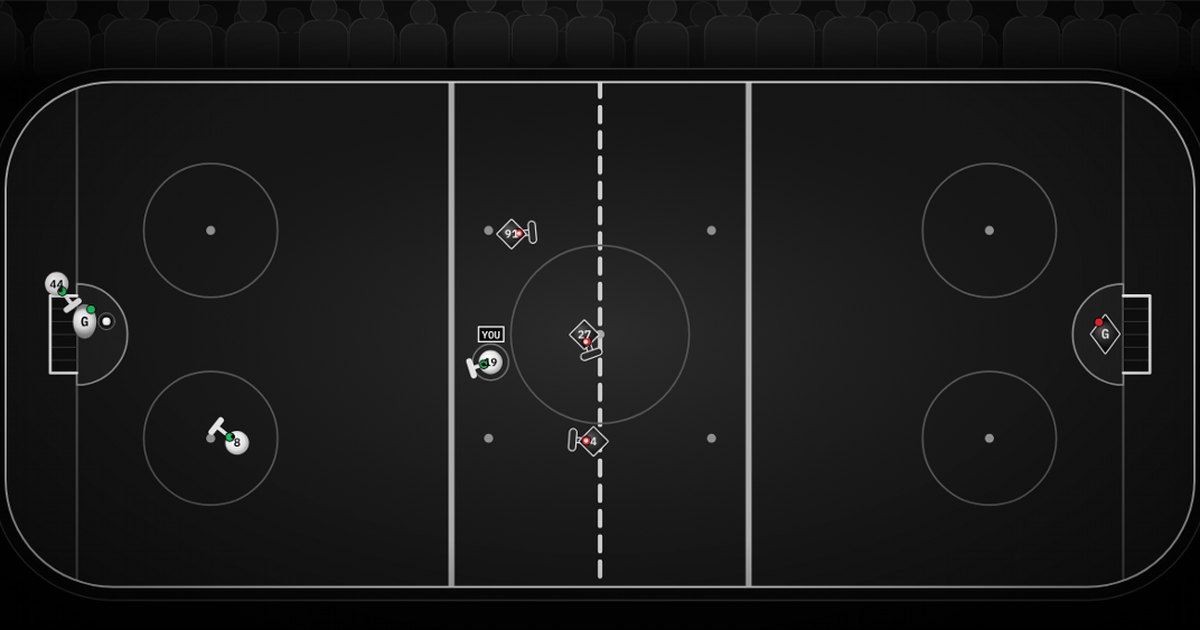
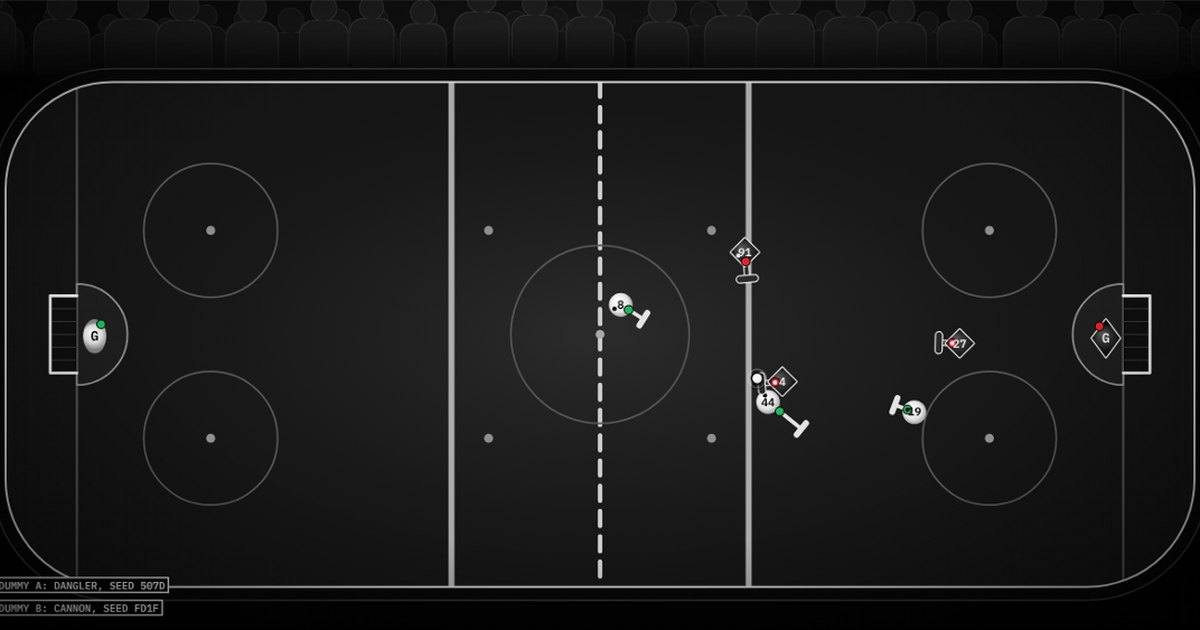
Games: swap the showcase shots to CPU vs CPU

diff --git a/games/slapshot/index.html b/games/slapshot/index.html
@@ -16,7 +16,7 @@
   <meta property="og:image" content="https://ag0nyy-ops.github.io/games/slapshot/og-image.jpg">
   <meta property="og:image:width" content="1200">
   <meta property="og:image:height" content="630">
-  <meta property="og:image:alt" content="Three on three hockey from above in Slapshot, your skater marked YOU at centre ice after the faceoff">
+  <meta property="og:image:alt" content="Three on three hockey from above in Slapshot, CPU vs CPU: two seeded dummy teams skate the neutral zone, their styles and seeds tagged in the corner">
   <meta name="twitter:card" content="summary_large_image">
   <meta name="theme-color" content="#060606">
   <meta name="color-scheme" content="dark">
@@ -60,8 +60,8 @@
       <p class="label">file 04 / how it plays</p>
       <h2 id="how">The right stick is your hockey stick.</h2>
       <figure class="shot">
-        <img src="og-image.jpg" width="1200" height="630" alt="Three on three hockey from above in Slapshot, your skater marked YOU at centre ice after the faceoff" loading="lazy">
-        <figcaption>3 on 3 at centre ice after the opening faceoff</figcaption>
+        <img src="og-image.jpg" width="1200" height="630" alt="Three on three hockey from above in Slapshot, CPU vs CPU: two seeded dummy teams skate the neutral zone, their styles and seeds tagged in the corner" loading="lazy">
+        <figcaption>CPU vs CPU, two seeded dummy teams in the first period</figcaption>
       </figure>
       <ul class="rules">
         <li><b>Hold back, flick forward.</b> Pull the right stick back to wind up and flick it forward to shoot. The puck goes the way you flick, and a dashed line shows the aim while you hold.</li>

diff --git a/games/bucket/index.html b/games/bucket/index.html
@@ -16,7 +16,7 @@
   <meta property="og:image" content="https://ag0nyy-ops.github.io/games/bucket/og-image.jpg">
   <meta property="og:image:width" content="1200">
   <meta property="og:image:height" content="630">
-  <meta property="og:image:alt" content="Half-court basketball in Bucket: a defender checks the ball handler at the top of the key, under the hoop and the crowd">
+  <meta property="og:image:alt" content="Half-court basketball in Bucket, CPU vs CPU: two seeded dummy pairs, A and B, work the arc under the hoop, their styles and seeds tagged in the corner">
   <meta name="twitter:card" content="summary_large_image">
   <meta name="theme-color" content="#060606">
   <meta name="color-scheme" content="dark">
@@ -60,8 +60,8 @@
       <p class="label">file 03 / how it plays</p>
       <h2 id="how">Aim it with both hands.</h2>
       <figure class="shot">
-        <img src="og-image.jpg" width="1200" height="630" alt="Half-court basketball in Bucket: a defender checks the ball handler at the top of the key, under the hoop and the crowd" loading="lazy">
-        <figcaption>2 on 2 vs a Pro CPU, checking it up top</figcaption>
+        <img src="og-image.jpg" width="1200" height="630" alt="Half-court basketball in Bucket, CPU vs CPU: two seeded dummy pairs, A and B, work the arc under the hoop, their styles and seeds tagged in the corner" loading="lazy">
+        <figcaption>CPU vs CPU, two seeded dummy pairs clearing it past the arc</figcaption>
       </figure>
       <ul class="rules">
         <li><b>No meter.</b> Hold shoot to rise. The view drops into your eyes and the world slows down. Let go whenever both hands sit in the ring on the rim.</li>

diff --git a/games/sprint/index.html b/games/sprint/index.html
@@ -16,7 +16,7 @@
   <meta property="og:image" content="https://ag0nyy-ops.github.io/games/sprint/og-image.jpg">
   <meta property="og:image:width" content="1200">
   <meta property="og:image:height" content="630">
-  <meta property="og:image:alt" content="Eight sprinters crouched in the blocks in Sprint, your runner marked YOU in lane 4, with SET called above the stands">
+  <meta property="og:image:alt" content="Eight seeded dummies race down their lanes in Sprint, CPU vs CPU, each lettered A to H with its style and seed tagged under the track">
   <meta name="twitter:card" content="summary_large_image">
   <meta name="theme-color" content="#060606">
   <meta name="color-scheme" content="dark">
@@ -60,8 +60,8 @@
       <p class="label">file 01 / how it plays</p>
       <h2 id="how">Run on rhythm, not on mash.</h2>
       <figure class="shot">
-        <img src="og-image.jpg" width="1200" height="630" alt="Eight sprinters crouched in the blocks in Sprint, your runner marked YOU in lane 4, with SET called above the stands" loading="lazy">
-        <figcaption>eight lanes in the blocks, waiting on the gun</figcaption>
+        <img src="og-image.jpg" width="1200" height="630" alt="Eight seeded dummies race down their lanes in Sprint, CPU vs CPU, each lettered A to H with its style and seed tagged under the track" loading="lazy">
+        <figcaption>CPU vs CPU, eight seeded dummies at 80 metres</figcaption>
       </figure>
       <ul class="rules">
         <li><b>Stride on the beat.</b> Alternate the two triggers. The beat starts long out of the blocks and gets quicker as you speed up. Mashing is off rhythm and gets you nowhere.</li>

diff --git a/games/tackle/index.html b/games/tackle/index.html
@@ -16,7 +16,7 @@
   <meta property="og:image" content="https://ag0nyy-ops.github.io/games/tackle/og-image.jpg">
   <meta property="og:image:width" content="1200">
   <meta property="og:image:height" content="630">
-  <meta property="og:image:alt" content="A play from above in Tackle: the quarterback drops back with an aim marker downfield and the receivers running their routes">
+  <meta property="og:image:alt" content="A play from above in Tackle, CPU vs CPU: two seeded dummy teams at the line, the down and distance called at the top">
   <meta name="twitter:card" content="summary_large_image">
   <meta name="theme-color" content="#060606">
   <meta name="color-scheme" content="dark">
@@ -60,8 +60,8 @@
       <p class="label">file 02 / how it plays</p>
       <h2 id="how">One hand has the ball. Only that hand plays.</h2>
       <figure class="shot">
-        <img src="og-image.jpg" width="1200" height="630" alt="A play from above in Tackle: the quarterback drops back with an aim marker downfield and the receivers running their routes" loading="lazy">
-        <figcaption>slants called, the quarterback aiming downfield</figcaption>
+        <img src="og-image.jpg" width="1200" height="630" alt="A play from above in Tackle, CPU vs CPU: two seeded dummy teams at the line, the down and distance called at the top" loading="lazy">
+        <figcaption>CPU vs CPU, two seeded dummy teams on third and five</figcaption>
       </figure>
       <ul class="rules">
         <li><b>Random hand.</b> Every play the ball goes in your left or right hand. Only that side's stick and trigger do anything, so muscle memory can't run the play.</li>

diff --git a/games/moves/index.html b/games/moves/index.html
@@ -16,7 +16,7 @@
   <meta property="og:image" content="https://ag0nyy-ops.github.io/games/moves/og-image.jpg">
   <meta property="og:image:width" content="1200">
   <meta property="og:image:height" content="630">
-  <meta property="og:image:alt" content="A gymnast walks back along the floor in Moves, past the three judges at their table in front of the crowd">
+  <meta property="og:image:alt" content="A seeded dummy runs the floor in Moves, CPU vs CPU, past the three judges while the other dummy waits at the corner">
   <meta name="twitter:card" content="summary_large_image">
   <meta name="theme-color" content="#060606">
   <meta name="color-scheme" content="dark">
@@ -65,8 +65,8 @@
       <p class="label">file 06 / how it plays</p>
       <h2 id="how">The judges score what your body actually does.</h2>
       <figure class="shot">
-        <img src="og-image.jpg" width="1200" height="630" alt="A gymnast walks back along the floor in Moves, past the three judges at their table in front of the crowd" loading="lazy">
-        <figcaption>free floor, walking back for the next pass</figcaption>
+        <img src="og-image.jpg" width="1200" height="630" alt="A seeded dummy runs the floor in Moves, CPU vs CPU, past the three judges while the other dummy waits at the corner" loading="lazy">
+        <figcaption>CPU vs CPU, dummy A running into its first pass</figcaption>
       </figure>
       <ul class="rules">
         <li><b>Takeoff sets everything.</b> Run speed and punch timing give you height and spin. A longer run is faster, but leaves less floor to land on.</li>

diff --git a/games/southpaw/index.html b/games/southpaw/index.html
@@ -16,7 +16,7 @@
   <meta property="og:image" content="https://ag0nyy-ops.github.io/games/southpaw/og-image.jpg">
   <meta property="og:image:width" content="1200">
   <meta property="og:image:height" content="630">
-  <meta property="og:image:alt" content="Two boxers trade at close range in Southpaw, the light fighter marked YOU landing a counter on the dark one">
+  <meta property="og:image:alt" content="Two seeded dummies trade at close range in Southpaw, CPU vs CPU, dummy A rocked as it lands a counter">
   <meta name="twitter:card" content="summary_large_image">
   <meta name="theme-color" content="#060606">
   <meta name="color-scheme" content="dark">
@@ -69,8 +69,8 @@
       <p class="label">file 05 / how it plays</p>
       <h2 id="how">Your triggers are your hands.</h2>
       <figure class="shot">
-        <img src="og-image.jpg" width="1200" height="630" alt="Two boxers trade at close range in Southpaw, the light fighter marked YOU landing a counter on the dark one" loading="lazy">
-        <figcaption>landing a counter on Bull in round one</figcaption>
+        <img src="og-image.jpg" width="1200" height="630" alt="Two seeded dummies trade at close range in Southpaw, CPU vs CPU, dummy A rocked as it lands a counter" loading="lazy">
+        <figcaption>CPU vs CPU, two seeded dummies trading in round one</figcaption>
       </figure>
       <ul class="rules">
         <li><b>Pull sets the power.</b> A light pull is a quick shot. A full pull lands heavy, costs more stamina and leaves you open longer if it misses.</li>
